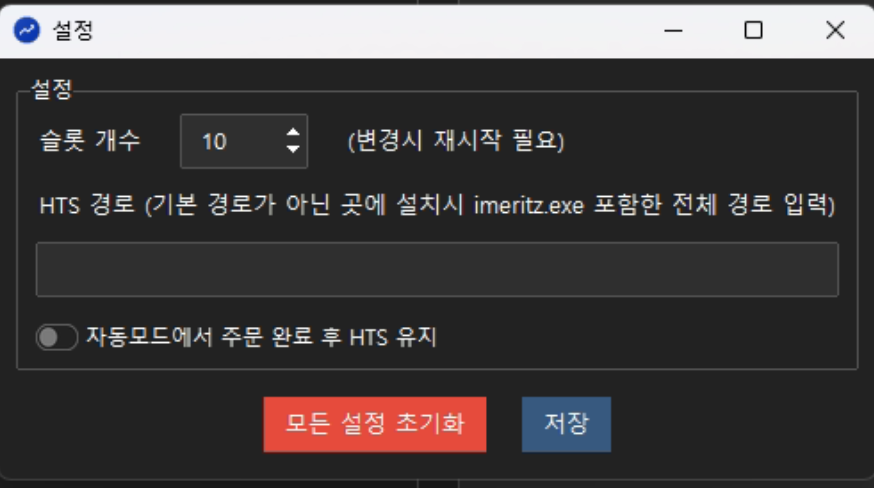
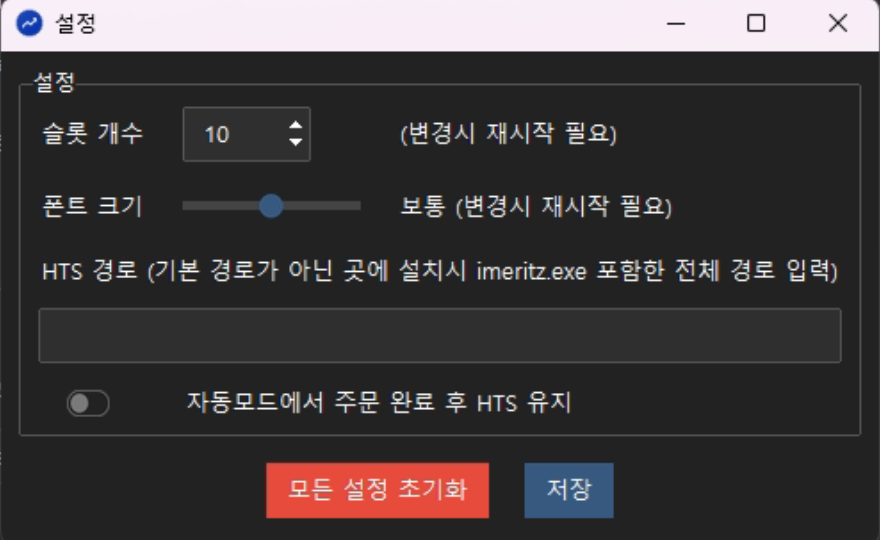
Update download, settings

Changed region(s): [[0.0, 0.0, 1.0, 0.7992], [0.278, 0.7992, 0.5561, 0.9836], [0.587, 0.7992, 0.7105, 0.9836]]

diff --git a/astra/docs/settings.md b/astra/docs/settings.md
@@ -7,6 +7,7 @@
 | 기능 |설명 |
 |-----|----|
 |슬롯 개수| ASTRA 에서는 기본적으로 5개의 슬롯을 가지고 있는데, 더 많은 슬롯이 필요할 경우에 필요한 값을 입력합니다. 저장 후 ASTRA 를 재시작해야 변경사항이 반영됩니다.|
+|폰트 크기| 폰트 크기를 3단계로 설정할 수 있습니다. 폰트 크기를 변경하면 ASTRA 창 크기도 비례해서 변경이 되므로 해상도가 낮은 환경에서 유용하게 사용할 수 있습니다. 저장 후 ASTRA 를 재시작해야 변경사항이 반영됩니다.|
 |HTS 경로| HTS 를 기본 경로에 설치하지 않은 경우에, 설치한 경로를 입력합니다. C드라이브 용량 문제로 다른 드라이브에 설치한 경우에 사용할 수 있습니다. `imeritz.exe` 를 포함한 전체 경로를 입력합니다.
 |자동모드 HTS 유지| 자동 모드에서는 주문완료 후 HTS를 종료합니다. 하지만 주문 완료 후 확인 용도로 HTS 를 유지하고 싶을 때 이 옵션을 사용합니다.|
 |모든 설정 초기화|설정 창에 있는 옵션들 및 슬롯에 입력한 모든 설정을 초기화 합니다. 저장 후 ASTRA 를 재시작해야 변경사항이 반영됩니다.| 

diff --git a/astra/docs/download.md b/astra/docs/download.md
@@ -13,6 +13,12 @@
     사용자는 본 프로그램을 사용함으로써, 그로 인해 발생할 수 있는 모든 결과에 대해  
     **개발자에게 어떠한 법적 책임도 묻지 않음을 동의한 것으로 간주됩니다.**
 
+## 0.7.0 (2025-07-24) [⬇](https://drive.google.com/file/d/12Xeo3n4vLeMm-jzXtZnCJE8WIsRoG3df/view?usp=sharing)
+- [시트매매] HTS에서 일별 종가 받아오는 기능 추가
+- [시트매매] 주문표에 유효하지 않은 글자가 포함되어 있는 경우 직관적인 에러 메시지 표시
+- 폰트 사이즈 변경 옵션 추가 (ASTRA 프로그램 창 크기도 변경됨)
+- 애프터장에서 HTS 종료 실패하는 오류 수정
+
 ## 0.6.6 (2025-07-16) [⬇](https://drive.google.com/file/d/1G8bgVLVV_OCaYsnyVGUihJ4_p_L4dQR4/view?usp=sharing)
 - 자동모드에서 슬롯 번호가 오름차순으로 실행되는 오류 수정
 
